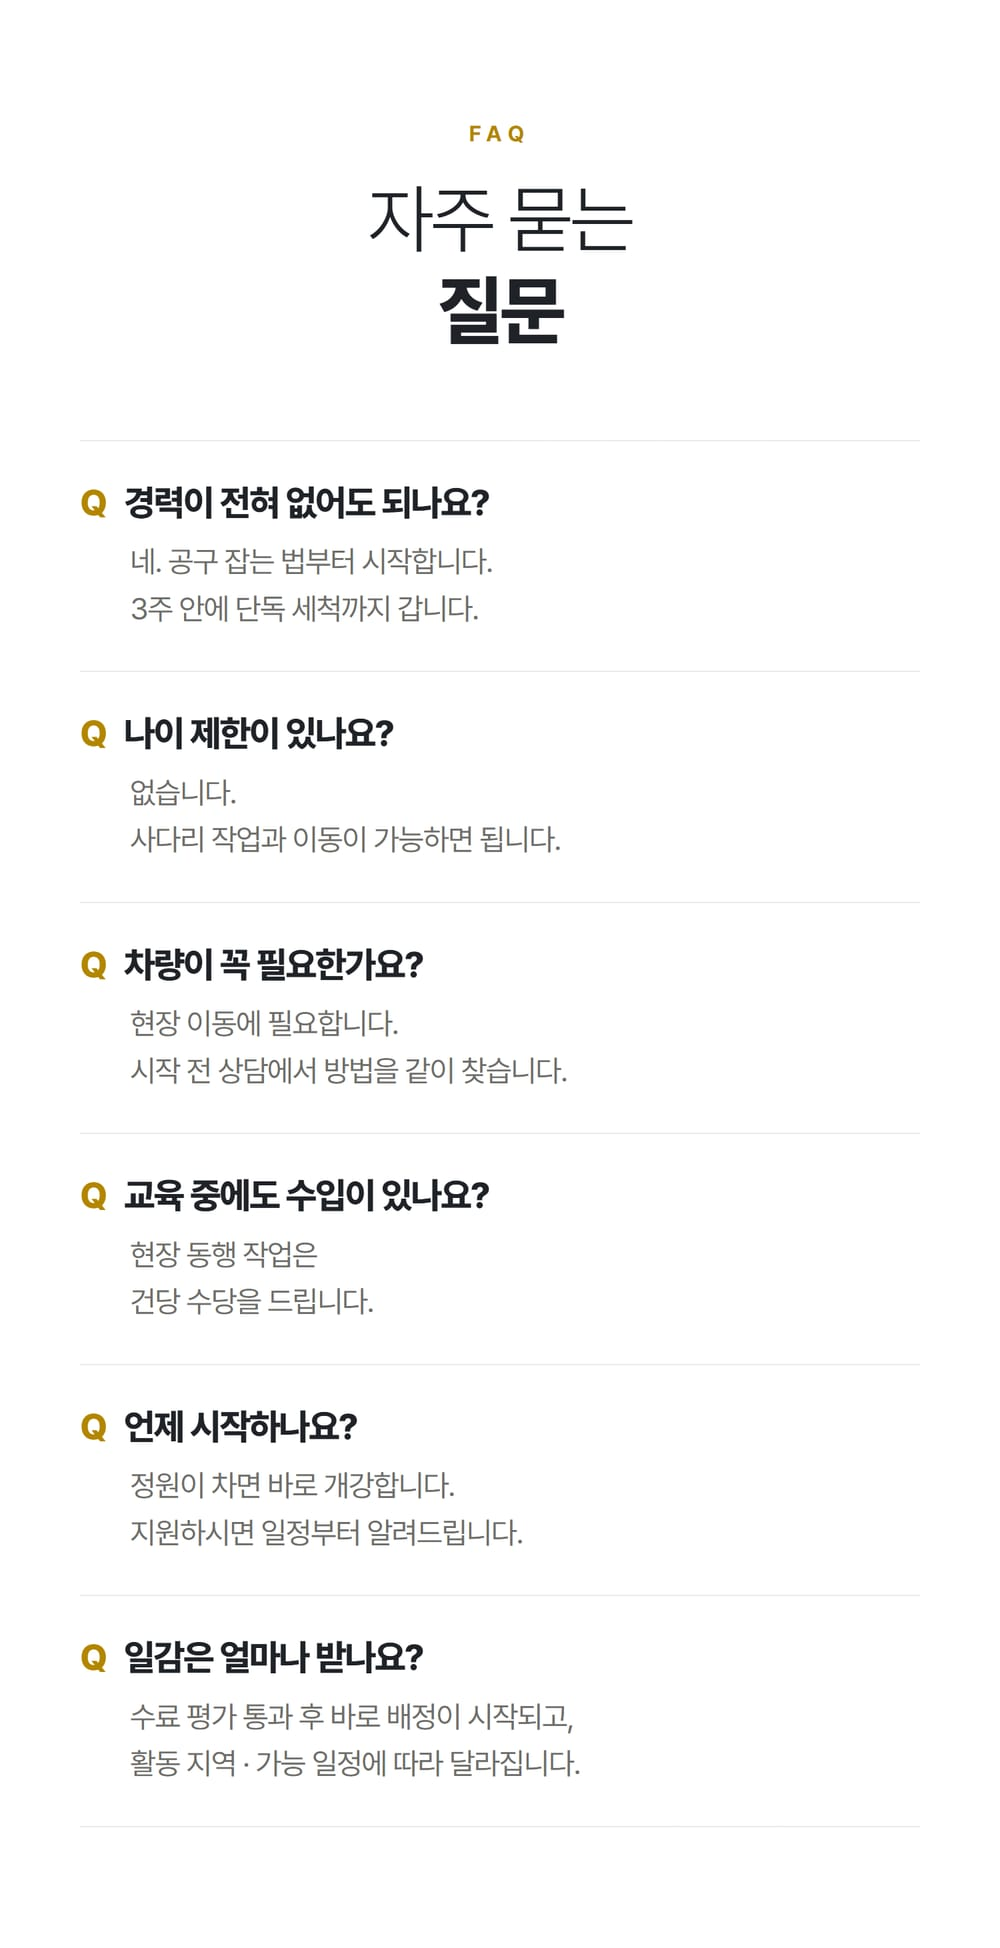
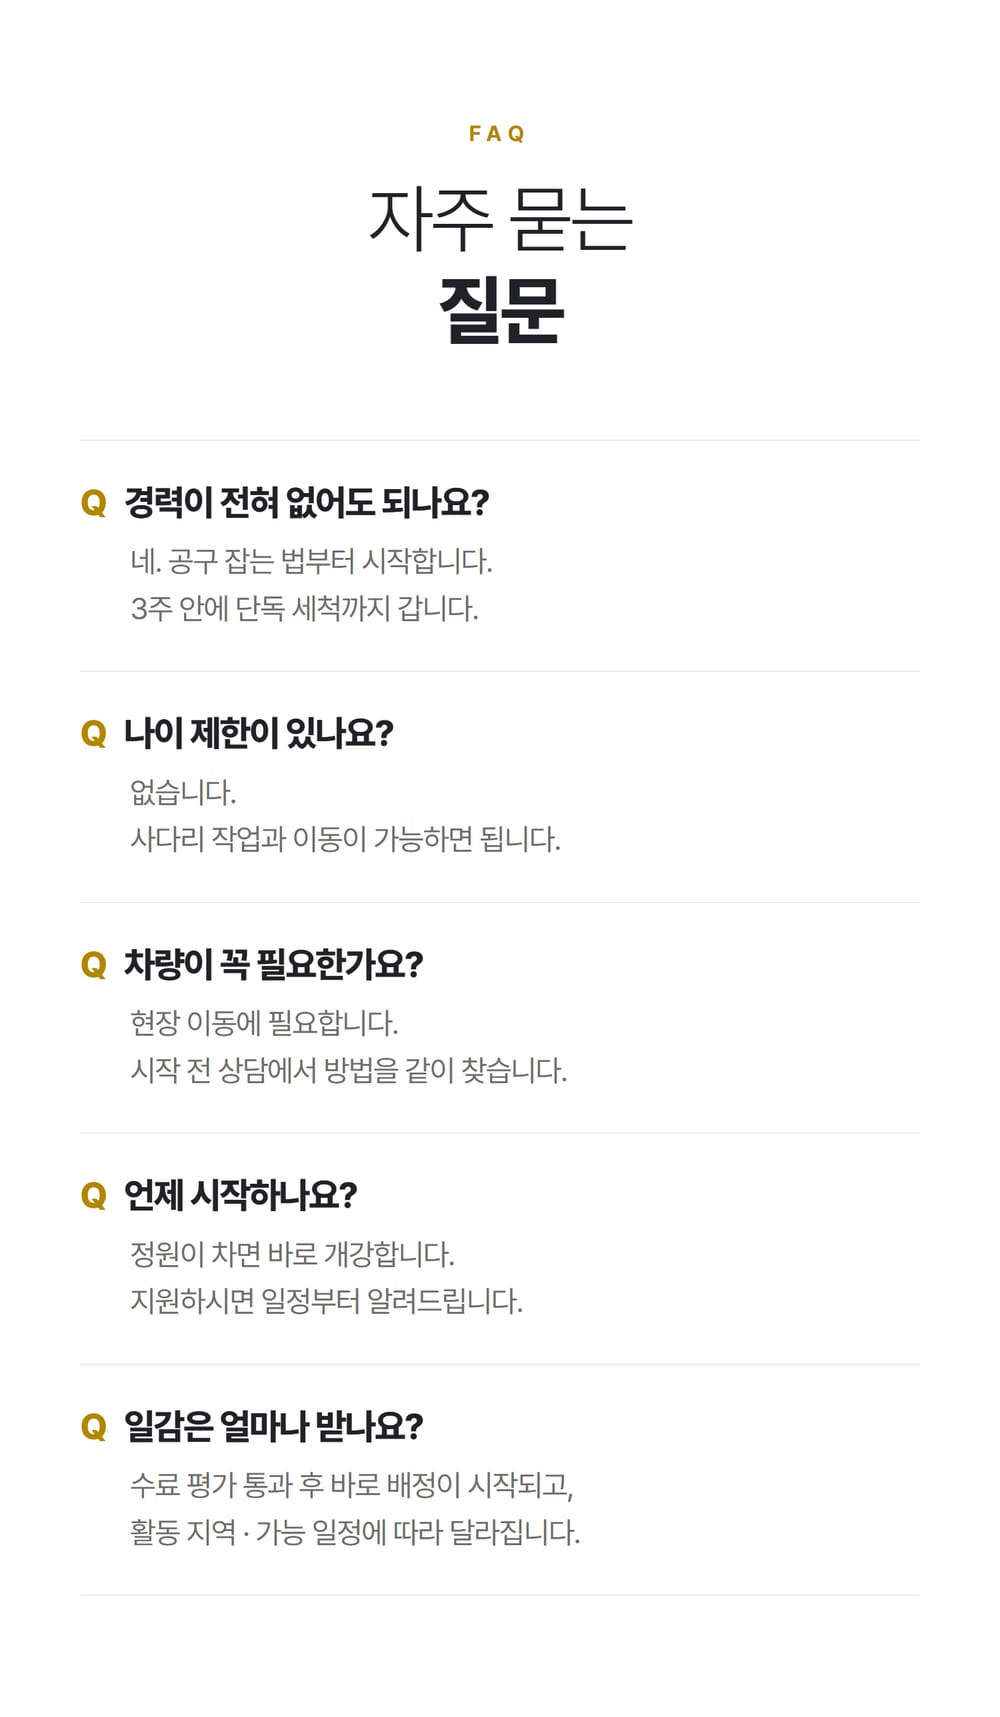
fix: 기사 양성 과정 — 교육 중 수입·수당 문구 삭제

Changed region(s): [[0.062, 0.2469, 0.589, 0.926], [0.372, 0.0617, 0.62, 0.2161]]

diff --git a/public/academy.html b/public/academy.html
@@ -166,7 +166,7 @@ footer b{color:#4A5263}
 </a>
 <div class="sec" data-img="img/academy/s6.jpg" data-w="1000" data-h="1892" data-alt="일 걱정은 저희가 합니다. 콜 배정, 현장 작업, 사진 보고, 정산" data-label="S6 해법"></div>
 <div class="sec" data-img="img/academy/s7.jpg" data-w="1000" data-h="1591" data-alt="여름에만 버는 일이 아닙니다. 여름 에어컨 세척 성수기, 가을 점검 · 냉매 · 수리, 겨울 로봇청소기 · 난방 수리, 봄 세척 예약 시작" data-label="S7 사계절"></div>
-<div class="sec" data-img="img/academy/s8.jpg" data-w="1000" data-h="3677" data-alt="3주, 현장에서 바로 쓰는 것만. 1주 벽걸이, 2주 스탠드 · 천장형 · 냉매 기초, 3주 로봇청소기 · 고객응대 · 현장 동행. 수료 평가 통과 후 바로 콜 배정" data-label="S8 3주 과정"></div>
+<div class="sec" data-img="img/academy/s8.jpg" data-w="1000" data-h="3603" data-alt="3주, 현장에서 바로 쓰는 것만. 1주 벽걸이, 2주 스탠드 · 천장형 · 냉매 기초, 3주 로봇청소기 · 고객응대 · 현장 동행. 수료 평가 통과 후 바로 콜 배정" data-label="S8 3주 과정"></div>
 <!-- 교육장 둘러보기 — 파노라마 투어 (HTML). 진짜 파노라마 사진을 받으면 img/academy/tour/ 사진만 바꾸면 됨 -->
 <section class="tour" id="tour">
   <p class="eb">TRAINING CENTER</p>
@@ -178,7 +178,7 @@ footer b{color:#4A5263}
 <div class="sec" data-img="img/academy/s9.jpg" data-w="1000" data-h="1193" data-alt="수료하고 끝이 아닙니다. 교육장 상시 개방, 수리 동행 심화 과정, 투명한 정산, 비수기 일감" data-label="S9 수료 후"></div>
 <div class="sec" data-img="img/academy/s10.jpg" data-w="1000" data-h="1360" data-alt="이런 분께 맞습니다, 이런 분께는 맞지 않습니다" data-label="S10 맞는 사람"></div>
 <div class="sec" data-img="img/academy/s11.jpg" data-w="1000" data-h="1218" data-alt="우리가 직접 기사를 키우는 이유. 성수기마다 기사가 모자랐습니다. 일은 넘치는데 사람이 없다면, 사람을 키우면 됩니다" data-label="S11 이유"></div>
-<div class="sec" data-img="img/academy/s12.jpg" data-w="1000" data-h="1948" data-alt="자주 묻는 질문. 경력, 나이, 차량, 교육 중 수입, 개강, 일감" data-label="S12 FAQ"></div>
+<div class="sec" data-img="img/academy/s12.jpg" data-w="1000" data-h="1717" data-alt="자주 묻는 질문. 경력, 나이, 차량, 개강, 일감" data-label="S12 FAQ"></div>
 <div class="sec" data-img="img/academy/s13.jpg" data-w="1000" data-h="1679" data-alt="다음 여름, 당신 이름으로 콜이 옵니다. 지원은 30초, 상담은 무료" data-label="S13 마지막"></div>
 
 <section class="apply" id="apply2">

diff --git a/design/academy/sections/s12.html b/design/academy/sections/s12.html
@@ -16,7 +16,6 @@
     <div class="q"><b><i>Q</i>경력이 전혀 없어도 되나요?</b><p>네. 공구 잡는 법부터 시작합니다.<br>3주 안에 단독 세척까지 갑니다.</p></div>
     <div class="q"><b><i>Q</i>나이 제한이 있나요?</b><p>없습니다.<br>사다리 작업과 이동이 가능하면 됩니다.</p></div>
     <div class="q"><b><i>Q</i>차량이 꼭 필요한가요?</b><p>현장 이동에 필요합니다.<br>시작 전 상담에서 방법을 같이 찾습니다.</p></div>
-    <div class="q"><b><i>Q</i>교육 중에도 수입이 있나요?</b><p>현장 동행 작업은<br>건당 수당을 드립니다.</p></div>
     <div class="q"><b><i>Q</i>언제 시작하나요?</b><p>정원이 차면 바로 개강합니다.<br>지원하시면 일정부터 알려드립니다.</p></div>
     <div class="q"><b><i>Q</i>일감은 얼마나 받나요?</b><p>수료 평가 통과 후 바로 배정이 시작되고,<br>활동 지역 · 가능 일정에 따라 달라집니다.</p></div>
   </div>

diff --git a/design/academy/sections/s8.html b/design/academy/sections/s8.html
@@ -26,7 +26,6 @@
     <div class="wk"><div class="n">3주</div><div class="b"><b>실전</b><p>로봇청소기<br>고객응대 · 분쟁 예방<br>앱 사용법 · 실제 현장 동행</p><div class="ph"><img src="../photos/v4_r24.jpg" alt="" style="width:402px"><img src="../photos/v4_r15.jpg" alt="" style="width:402px"></div></div></div>
   </div>
   <p class="big"><span class="l">수료 평가 통과 →</span><br><span class="uline">바로 콜 배정 시작</span></p>
-  <p class="small">현장 동행 작업은 건당 수당을 드립니다</p>
   <div class="next"><p>끝나도 혼자가 아닙니다</p><i>↓</i></div>
 </section>
 </body></html>
